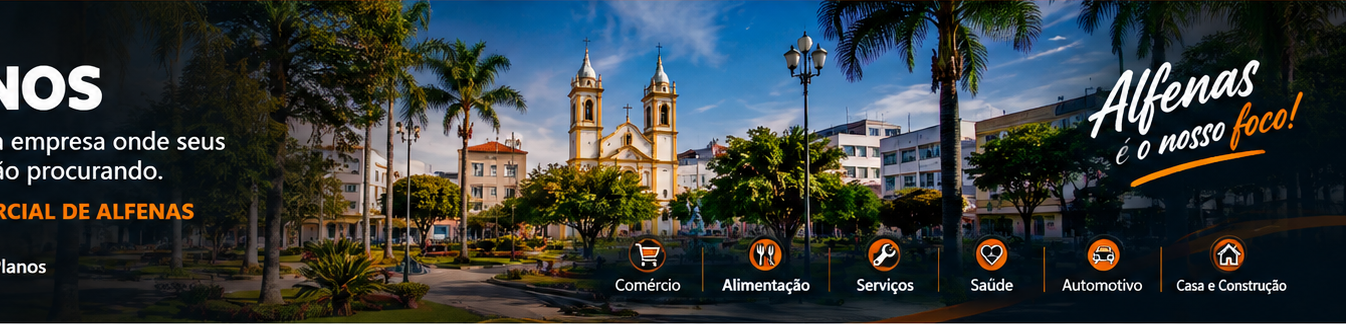
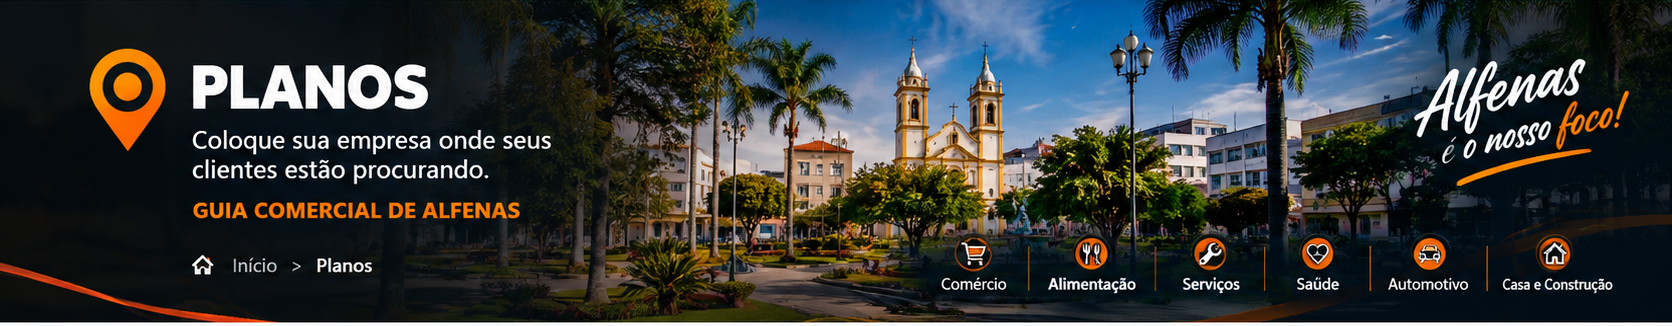
Capa da pagina de planos vira a imagem pronta; no celular fica a faixa escura com o texto legivel

diff --git a/planos.html b/planos.html
@@ -28,22 +28,46 @@
         }
 
         /* 2. HERO / BANNER DA PÁGINA PLANOS */
-        /* A foto de Alfenas no fundo. O escurecido segura a leitura do
-           título branco em cima da igreja. A posição "center 30%" guarda
-           o "Alfenas é o nosso foco" do canto direito no computador. */
+        /* A capa é a imagem pronta: "PLANOS", a frase, o nome do guia e o
+           caminho "Início > Planos" já vêm desenhados nela. Entra inteira,
+           sem corte, do mesmo jeito que o topo dos cards. */
         .plans-hero {
             background-color: #27272a;
-            background-image: linear-gradient(rgba(0, 0, 0, 0.45), rgba(0, 0, 0, 0.55)), url('assets/img/planos/capa-planos.jpg');
-            background-size: cover;
-            background-position: center 30%;
             color: #ffffff;
             text-align: center;
-            padding: 70px 20px;
+            line-height: 0;
         }
 
-        .plans-hero h1,
-        .plans-hero p {
-            text-shadow: 0 2px 8px rgba(0, 0, 0, 0.6);
+        .plans-hero .capa-planos {
+            display: block;
+            width: 100%;
+            height: auto;
+        }
+
+        .capa-texto {
+            line-height: 1.5;
+            padding: 50px 20px;
+        }
+
+        /* Do tablet para cima vale a imagem, e o texto fica invisível, só
+           para leitor de tela e buscador. No celular é o contrário: a
+           imagem tem 1672px de largura e encolheria para uns 73px de
+           altura, com as letras ilegíveis — ali vale a faixa escura com o
+           texto de verdade. */
+        @media (min-width: 700px) {
+            .capa-texto {
+                position: absolute;
+                width: 1px;
+                height: 1px;
+                padding: 0;
+                overflow: hidden;
+                clip-path: inset(50%);
+                white-space: nowrap;
+            }
+        }
+
+        @media (max-width: 699px) {
+            .plans-hero .capa-planos { display: none; }
         }
 
         .plans-hero h1 {
@@ -383,9 +407,11 @@
 
 
     <section class="plans-hero">
-        <div class="container">
+        <img class="capa-planos" src="assets/img/planos/capa-planos.jpg"
+             alt="Planos do Guia Comercial de Alfenas: coloque sua empresa onde seus clientes estão procurando">
+        <div class="container capa-texto">
             <h1>Planos</h1>
-            <p><a href="index.html">Home</a> &gt; Planos</p>
+            <p><a href="index.html">Início</a> &gt; Planos</p>
         </div>
     </section>
 
